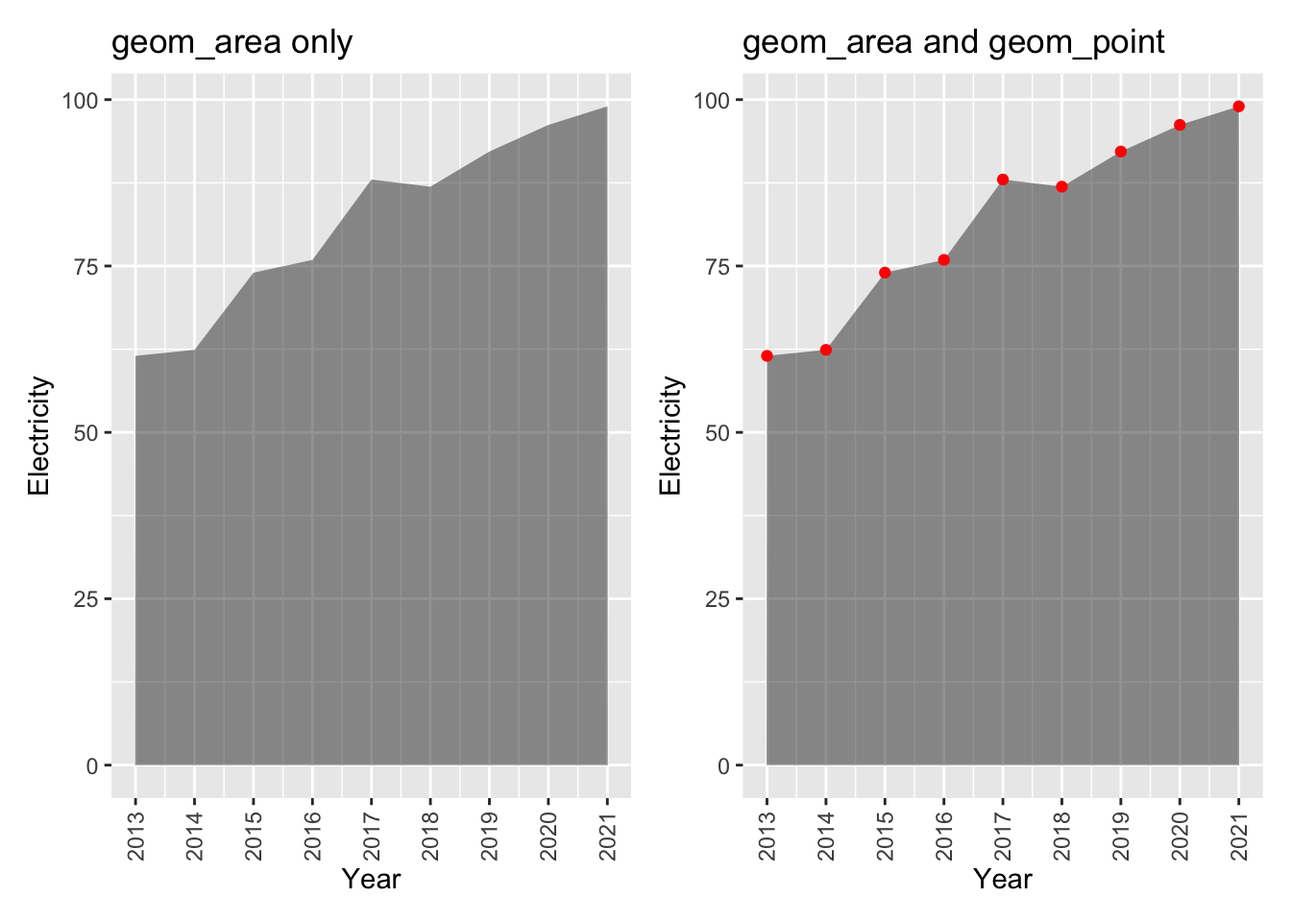
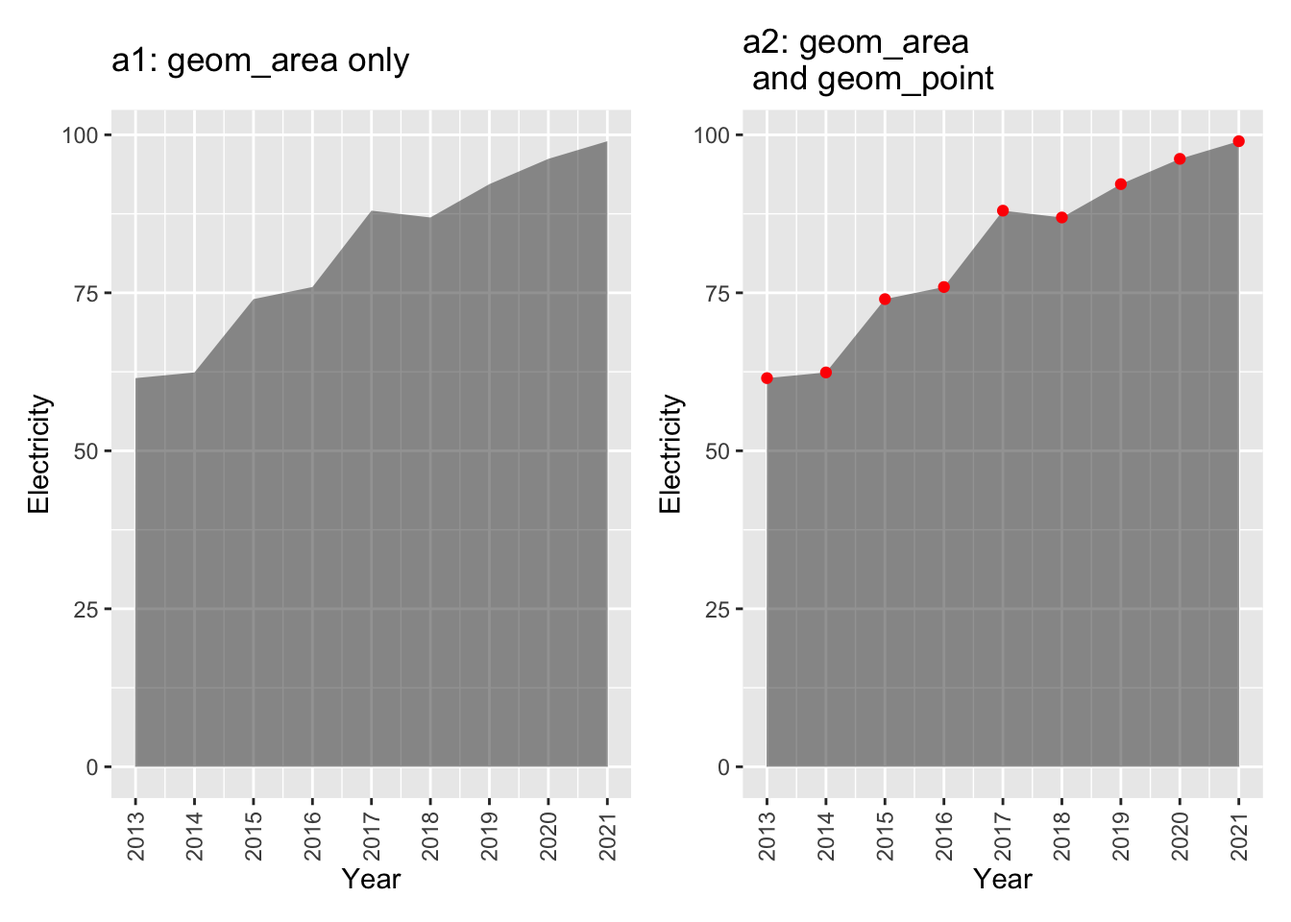
updated

diff --git a/_book/a.html b/_book/a.html
@@ -303,7 +303,7 @@ div.csl-indent {
           <li class="sidebar-item">
   <div class="sidebar-item-container"> 
   <a href="./h.html" class="sidebar-item-text sidebar-link">
- <span class="menu-text"><span class="chapter-number">10</span>&nbsp; <span class="chapter-title">geom_a</span></span></a>
+ <span class="menu-text"><span class="chapter-number">10</span>&nbsp; <span class="chapter-title">geom_h</span></span></a>
   </div>
 </li>
       </ul>
@@ -645,7 +645,15 @@ div.csl-indent {
   <li><a href="#see-also" id="toc-see-also" class="nav-link" data-scroll-target="#see-also"><span class="header-section-number">3.1.5</span> See also</a></li>
   <li><a href="#example" id="toc-example" class="nav-link" data-scroll-target="#example"><span class="header-section-number">3.1.6</span> Example</a></li>
   </ul></li>
-  <li><a href="#abline" id="toc-abline" class="nav-link" data-scroll-target="#abline"><span class="header-section-number">3.2</span> geom_abline</a></li>
+  <li><a href="#abline" id="toc-abline" class="nav-link" data-scroll-target="#abline"><span class="header-section-number">3.2</span> geom_abline</a>
+  <ul class="collapse">
+  <li><a href="#package-1" id="toc-package-1" class="nav-link" data-scroll-target="#package-1"><span class="header-section-number">3.2.1</span> Package</a></li>
+  <li><a href="#description-1" id="toc-description-1" class="nav-link" data-scroll-target="#description-1"><span class="header-section-number">3.2.2</span> Description</a></li>
+  <li><a href="#understandable-aesthetics-1" id="toc-understandable-aesthetics-1" class="nav-link" data-scroll-target="#understandable-aesthetics-1"><span class="header-section-number">3.2.3</span> Understandable aesthetics</a></li>
+  <li><a href="#statistics-layers" id="toc-statistics-layers" class="nav-link" data-scroll-target="#statistics-layers"><span class="header-section-number">3.2.4</span> Statistics layer(s)</a></li>
+  <li><a href="#see-also-1" id="toc-see-also-1" class="nav-link" data-scroll-target="#see-also-1"><span class="header-section-number">3.2.5</span> See also:</a></li>
+  <li><a href="#example-1" id="toc-example-1" class="nav-link" data-scroll-target="#example-1"><span class="header-section-number">3.2.6</span> Example</a></li>
+  </ul></li>
   </ul>
 </nav>
     </div>
@@ -696,18 +704,25 @@ div.csl-indent {
 <section id="example" class="level3" data-number="3.1.6">
 <h3 data-number="3.1.6" class="anchored" data-anchor-id="example"><span class="header-section-number">3.1.6</span> Example</h3>
 <div class="cell">
-<div class="sourceCode cell-code" id="cb1"><pre class="sourceCode r code-with-copy"><code class="sourceCode r"><span id="cb1-1"><a href="#cb1-1" aria-hidden="true" tabindex="-1"></a>area <span class="ot">&lt;-</span> worldbankdata <span class="sc">|&gt;</span></span>
+<div class="sourceCode cell-code" id="cb1"><pre class="sourceCode r code-with-copy"><code class="sourceCode r"><span id="cb1-1"><a href="#cb1-1" aria-hidden="true" tabindex="-1"></a>a1 <span class="ot">&lt;-</span> worldbankdata <span class="sc">|&gt;</span></span>
 <span id="cb1-2"><a href="#cb1-2" aria-hidden="true" tabindex="-1"></a>  <span class="fu">filter</span>(Country <span class="sc">==</span> <span class="st">"Bangladesh"</span>) <span class="sc">|&gt;</span> </span>
 <span id="cb1-3"><a href="#cb1-3" aria-hidden="true" tabindex="-1"></a>  <span class="fu">filter</span>(Year <span class="sc">&gt;=</span> <span class="dv">2013</span> <span class="sc">&amp;</span> Year <span class="sc">&lt;=</span> <span class="dv">2021</span>) <span class="sc">|&gt;</span></span>
 <span id="cb1-4"><a href="#cb1-4" aria-hidden="true" tabindex="-1"></a>  <span class="fu">ggplot</span>(<span class="fu">aes</span>(<span class="at">x=</span>Year, <span class="at">y=</span>Electricity)) <span class="sc">+</span> </span>
 <span id="cb1-5"><a href="#cb1-5" aria-hidden="true" tabindex="-1"></a>  <span class="fu">geom_area</span>(<span class="at">alpha=</span><span class="fl">0.5</span>) <span class="sc">+</span> </span>
 <span id="cb1-6"><a href="#cb1-6" aria-hidden="true" tabindex="-1"></a>  <span class="fu">theme</span>(<span class="at">axis.text.x =</span> <span class="fu">element_text</span>(<span class="at">angle =</span> <span class="dv">90</span>, <span class="at">vjust =</span> <span class="fl">0.5</span>, <span class="at">hjust=</span><span class="dv">1</span>)) <span class="sc">+</span> </span>
 <span id="cb1-7"><a href="#cb1-7" aria-hidden="true" tabindex="-1"></a>  <span class="fu">scale_x_continuous</span>(<span class="at">breaks =</span> <span class="dv">2013</span><span class="sc">:</span><span class="dv">2021</span>) <span class="sc">+</span> </span>
-<span id="cb1-8"><a href="#cb1-8" aria-hidden="true" tabindex="-1"></a>  <span class="fu">labs</span>(<span class="at">title =</span> <span class="st">"geom_area only"</span>)</span>
+<span id="cb1-8"><a href="#cb1-8" aria-hidden="true" tabindex="-1"></a>  <span class="fu">labs</span>(<span class="at">title =</span> <span class="st">"a1: geom_area only"</span>)</span>
 <span id="cb1-9"><a href="#cb1-9" aria-hidden="true" tabindex="-1"></a></span>
-<span id="cb1-10"><a href="#cb1-10" aria-hidden="true" tabindex="-1"></a>areapoint <span class="ot">&lt;-</span> area <span class="sc">+</span> <span class="fu">geom_point</span>(<span class="at">col=</span><span class="st">"red"</span>) <span class="sc">+</span> </span>
-<span id="cb1-11"><a href="#cb1-11" aria-hidden="true" tabindex="-1"></a>  <span class="fu">labs</span>(<span class="at">title =</span> <span class="st">"geom_area and geom_point"</span>)</span>
-<span id="cb1-12"><a href="#cb1-12" aria-hidden="true" tabindex="-1"></a>area <span class="sc">|</span> areapoint</span></code><button title="Copy to Clipboard" class="code-copy-button"><i class="bi"></i></button></pre></div>
+<span id="cb1-10"><a href="#cb1-10" aria-hidden="true" tabindex="-1"></a>a2 <span class="ot">&lt;-</span>  worldbankdata <span class="sc">|&gt;</span></span>
+<span id="cb1-11"><a href="#cb1-11" aria-hidden="true" tabindex="-1"></a>  <span class="fu">filter</span>(Country <span class="sc">==</span> <span class="st">"Bangladesh"</span>) <span class="sc">|&gt;</span> </span>
+<span id="cb1-12"><a href="#cb1-12" aria-hidden="true" tabindex="-1"></a>  <span class="fu">filter</span>(Year <span class="sc">&gt;=</span> <span class="dv">2013</span> <span class="sc">&amp;</span> Year <span class="sc">&lt;=</span> <span class="dv">2021</span>) <span class="sc">|&gt;</span></span>
+<span id="cb1-13"><a href="#cb1-13" aria-hidden="true" tabindex="-1"></a>  <span class="fu">ggplot</span>(<span class="fu">aes</span>(<span class="at">x=</span>Year, <span class="at">y=</span>Electricity)) <span class="sc">+</span> </span>
+<span id="cb1-14"><a href="#cb1-14" aria-hidden="true" tabindex="-1"></a>  <span class="fu">geom_area</span>(<span class="at">alpha=</span><span class="fl">0.5</span>) <span class="sc">+</span> </span>
+<span id="cb1-15"><a href="#cb1-15" aria-hidden="true" tabindex="-1"></a>  <span class="fu">theme</span>(<span class="at">axis.text.x =</span> <span class="fu">element_text</span>(<span class="at">angle =</span> <span class="dv">90</span>, <span class="at">vjust =</span> <span class="fl">0.5</span>, <span class="at">hjust=</span><span class="dv">1</span>)) <span class="sc">+</span> </span>
+<span id="cb1-16"><a href="#cb1-16" aria-hidden="true" tabindex="-1"></a>  <span class="fu">scale_x_continuous</span>(<span class="at">breaks =</span> <span class="dv">2013</span><span class="sc">:</span><span class="dv">2021</span>)  <span class="sc">+</span> </span>
+<span id="cb1-17"><a href="#cb1-17" aria-hidden="true" tabindex="-1"></a>  <span class="fu">geom_point</span>(<span class="at">col=</span><span class="st">"red"</span>) <span class="sc">+</span> </span>
+<span id="cb1-18"><a href="#cb1-18" aria-hidden="true" tabindex="-1"></a>  <span class="fu">labs</span>(<span class="at">title =</span> <span class="st">"a2: geom_area </span><span class="sc">\n</span><span class="st"> and geom_point"</span>)</span>
+<span id="cb1-19"><a href="#cb1-19" aria-hidden="true" tabindex="-1"></a>a1 <span class="sc">|</span> a2</span></code><button title="Copy to Clipboard" class="code-copy-button"><i class="bi"></i></button></pre></div>
 <div class="cell-output-display">
 <p><img src="a_files/figure-html/area-1.png" class="img-fluid" width="672"></p>
 </div>
@@ -716,34 +731,41 @@ div.csl-indent {
 </section>
 <section id="abline" class="level2" data-number="3.2">
 <h2 data-number="3.2" class="anchored" data-anchor-id="abline"><span class="header-section-number">3.2</span> geom_abline</h2>
-<p><strong>Package: </strong> ggplot2 <span class="citation" data-cites="R-ggplot2">(<a href="references.html#ref-R-ggplot2" role="doc-biblioref"><strong>R-ggplot2?</strong></a>)</span></p>
-<p><strong>Book: </strong></p>
-<p><strong>Description: </strong> Draw a straight line (<span class="math inline">\(Y=mX+c\)</span>) for a given slope (<span class="math inline">\(m\)</span>) and intercept (<span class="math inline">\(c\)</span>).</p>
-<p><strong>Understandable aesthetics:</strong> alpha, colour, linetype, linewidth</p>
-<p><strong>Statistics layer(s):</strong></p>
-<p><strong>See also: </strong> <a href="#point">geom_point</a>, <a href="#vline">geom_vline</a>, <a href="#hline">geom_hline</a></p>
-<p><strong>Example:</strong></p>
+<section id="package-1" class="level3" data-number="3.2.1">
+<h3 data-number="3.2.1" class="anchored" data-anchor-id="package-1"><span class="header-section-number">3.2.1</span> Package</h3>
+<p>ggplot2 <span class="citation" data-cites="ggplot2">(<a href="references.html#ref-ggplot2" role="doc-biblioref">Wickham 2016</a>)</span></p>
+</section>
+<section id="description-1" class="level3" data-number="3.2.2">
+<h3 data-number="3.2.2" class="anchored" data-anchor-id="description-1"><span class="header-section-number">3.2.2</span> Description</h3>
+<p>Description Draw a straight line (<span class="math inline">\(Y=mX+c\)</span>) for a given slope (<span class="math inline">\(m\)</span>) and intercept (<span class="math inline">\(c\)</span>).</p>
+</section>
+<section id="understandable-aesthetics-1" class="level3" data-number="3.2.3">
+<h3 data-number="3.2.3" class="anchored" data-anchor-id="understandable-aesthetics-1"><span class="header-section-number">3.2.3</span> Understandable aesthetics</h3>
+<p>Unlike most other geoms, <code>geom_abline</code> does not depend on the x and y variables that we map for the main plot. <code>geom_abline</code> has its own independent characteristics: <code>intercept</code> and <code>slope</code>.</p>
+</section>
+<section id="statistics-layers" class="level3" data-number="3.2.4">
+<h3 data-number="3.2.4" class="anchored" data-anchor-id="statistics-layers"><span class="header-section-number">3.2.4</span> Statistics layer(s)</h3>
+<p>None (<code>geom_abline</code> is independent from the data layer.)</p>
+</section>
+<section id="see-also-1" class="level3" data-number="3.2.5">
+<h3 data-number="3.2.5" class="anchored" data-anchor-id="see-also-1"><span class="header-section-number">3.2.5</span> See also:</h3>
+<p><a href="#point">geom_point</a>, <a href="#vline">geom_vline</a>, <a href="h.html#hline">geom_hline</a></p>
+</section>
+<section id="example-1" class="level3" data-number="3.2.6">
+<h3 data-number="3.2.6" class="anchored" data-anchor-id="example-1"><span class="header-section-number">3.2.6</span> Example</h3>
 <div class="cell">
-<div class="sourceCode cell-code" id="cb2"><pre class="sourceCode r code-with-copy"><code class="sourceCode r"><span id="cb2-1"><a href="#cb2-1" aria-hidden="true" tabindex="-1"></a>abline <span class="ot">&lt;-</span> <span class="fu">ggplot</span>(worldbankdata, <span class="fu">aes</span>(<span class="at">y =</span> Cooking, <span class="at">x=</span>Electricity)) <span class="sc">+</span>  <span class="fu">geom_abline</span>(<span class="at">intercept =</span> <span class="dv">0</span>, <span class="at">slope =</span> <span class="dv">1</span>) <span class="sc">+</span> </span>
-<span id="cb2-2"><a href="#cb2-2" aria-hidden="true" tabindex="-1"></a>  <span class="fu">labs</span>(<span class="at">title=</span><span class="st">"A: `geom_abline` only"</span>) <span class="sc">+</span></span>
-<span id="cb2-3"><a href="#cb2-3" aria-hidden="true" tabindex="-1"></a>  <span class="fu">theme</span>(<span class="at">aspect.ratio =</span> <span class="dv">1</span>)</span>
-<span id="cb2-4"><a href="#cb2-4" aria-hidden="true" tabindex="-1"></a></span>
-<span id="cb2-5"><a href="#cb2-5" aria-hidden="true" tabindex="-1"></a>pointabline <span class="ot">&lt;-</span> abline <span class="sc">+</span> </span>
-<span id="cb2-6"><a href="#cb2-6" aria-hidden="true" tabindex="-1"></a>  <span class="fu">geom_point</span>() <span class="sc">+</span> </span>
-<span id="cb2-7"><a href="#cb2-7" aria-hidden="true" tabindex="-1"></a>  <span class="fu">theme</span>(<span class="at">aspect.ratio =</span> <span class="dv">1</span>)</span>
-<span id="cb2-8"><a href="#cb2-8" aria-hidden="true" tabindex="-1"></a></span>
-<span id="cb2-9"><a href="#cb2-9" aria-hidden="true" tabindex="-1"></a><span class="fu">library</span>(patchwork)</span>
-<span id="cb2-10"><a href="#cb2-10" aria-hidden="true" tabindex="-1"></a>abline <span class="sc">|</span> pointabline</span></code><button title="Copy to Clipboard" class="code-copy-button"><i class="bi"></i></button></pre></div>
-<div class="cell-output cell-output-stderr">
-<pre><code>Warning: Removed 6051 rows containing missing values (`geom_point()`).</code></pre>
-</div>
+<div class="sourceCode cell-code" id="cb2"><pre class="sourceCode r code-with-copy"><code class="sourceCode r"><span id="cb2-1"><a href="#cb2-1" aria-hidden="true" tabindex="-1"></a>a1 <span class="ot">&lt;-</span> <span class="fu">ggplot</span>(worldbankdata, <span class="fu">aes</span>(<span class="at">y =</span> Cooking, <span class="at">x=</span>Electricity)) <span class="sc">+</span> </span>
+<span id="cb2-2"><a href="#cb2-2" aria-hidden="true" tabindex="-1"></a>  <span class="fu">geom_abline</span>(<span class="at">intercept =</span> <span class="dv">0</span>, <span class="at">slope =</span> <span class="dv">1</span>) <span class="sc">+</span> </span>
+<span id="cb2-3"><a href="#cb2-3" aria-hidden="true" tabindex="-1"></a>  <span class="fu">labs</span>(<span class="at">title=</span><span class="st">"a1: geom_abline only"</span>) <span class="sc">+</span></span>
+<span id="cb2-4"><a href="#cb2-4" aria-hidden="true" tabindex="-1"></a>  <span class="fu">theme</span>(<span class="at">aspect.ratio =</span> <span class="dv">1</span>)</span>
+<span id="cb2-5"><a href="#cb2-5" aria-hidden="true" tabindex="-1"></a>a2 <span class="ot">&lt;-</span> <span class="fu">ggplot</span>(worldbankdata, <span class="fu">aes</span>(<span class="at">y =</span> Cooking, <span class="at">x=</span>Electricity)) <span class="sc">+</span> </span>
+<span id="cb2-6"><a href="#cb2-6" aria-hidden="true" tabindex="-1"></a>  <span class="fu">geom_abline</span>(<span class="at">intercept =</span> <span class="dv">0</span>, <span class="at">slope =</span> <span class="dv">1</span>) <span class="sc">+</span> </span>
+<span id="cb2-7"><a href="#cb2-7" aria-hidden="true" tabindex="-1"></a>  <span class="fu">geom_point</span>() <span class="sc">+</span> </span>
+<span id="cb2-8"><a href="#cb2-8" aria-hidden="true" tabindex="-1"></a>  <span class="fu">labs</span>(<span class="at">title =</span> <span class="st">"a2: geom_abline </span><span class="sc">\n</span><span class="st"> and geom_point"</span>) <span class="sc">+</span></span>
+<span id="cb2-9"><a href="#cb2-9" aria-hidden="true" tabindex="-1"></a>  <span class="fu">theme</span>(<span class="at">aspect.ratio =</span> <span class="dv">1</span>)</span>
+<span id="cb2-10"><a href="#cb2-10" aria-hidden="true" tabindex="-1"></a>a1 <span class="sc">|</span> a2</span></code><button title="Copy to Clipboard" class="code-copy-button"><i class="bi"></i></button></pre></div>
 <div class="cell-output-display">
-<div class="quarto-figure quarto-figure-center">
-<figure class="figure">
-<p><img src="a_files/figure-html/unnamed-chunk-2-1.png" class="img-fluid figure-img" width="480"></p>
-<figcaption class="figure-caption">Illustration of (A) geom_abline and (B) use of geom_point and geom_abline both</figcaption>
-</figure>
-</div>
+<p><img src="a_files/figure-html/unnamed-chunk-2-1.png" class="img-fluid" width="768"></p>
 </div>
 </div>
 
@@ -753,6 +775,7 @@ div.csl-indent {
 Wickham, Hadley. 2016. <em>Ggplot2: Elegant Graphics for Data Analysis</em>. Springer-Verlag New York. <a href="https://ggplot2.tidyverse.org">https://ggplot2.tidyverse.org</a>.
 </div>
 </div>
+</section>
 </section>
 
 </main> <!-- /main -->

diff --git a/_book/h.html b/_book/h.html
@@ -7,7 +7,7 @@
 <meta name="viewport" content="width=device-width, initial-scale=1.0, user-scalable=yes">
 
 
-<title>Data Visualisation geom Encyclopedia - 10&nbsp; geom_a</title>
+<title>Data Visualisation geom Encyclopedia - 10&nbsp; geom_h</title>
 <style>
 code{white-space: pre-wrap;}
 span.smallcaps{font-variant: small-caps;}
@@ -20,7 +20,60 @@ ul.task-list li input[type="checkbox"] {
   margin: 0 0.8em 0.2em -1em; /* quarto-specific, see https://github.com/quarto-dev/quarto-cli/issues/4556 */ 
   vertical-align: middle;
 }
-</style>
+/* CSS for syntax highlighting */
+pre > code.sourceCode { white-space: pre; position: relative; }
+pre > code.sourceCode > span { display: inline-block; line-height: 1.25; }
+pre > code.sourceCode > span:empty { height: 1.2em; }
+.sourceCode { overflow: visible; }
+code.sourceCode > span { color: inherit; text-decoration: inherit; }
+div.sourceCode { margin: 1em 0; }
+pre.sourceCode { margin: 0; }
+@media screen {
+div.sourceCode { overflow: auto; }
+}
+@media print {
+pre > code.sourceCode { white-space: pre-wrap; }
+pre > code.sourceCode > span { text-indent: -5em; padding-left: 5em; }
+}
+pre.numberSource code
+  { counter-reset: source-line 0; }
+pre.numberSource code > span
+  { position: relative; left: -4em; counter-increment: source-line; }
+pre.numberSource code > span > a:first-child::before
+  { content: counter(source-line);
+    position: relative; left: -1em; text-align: right; vertical-align: baseline;
+    border: none; display: inline-block;
+    -webkit-touch-callout: none; -webkit-user-select: none;
+    -khtml-user-select: none; -moz-user-select: none;
+    -ms-user-select: none; user-select: none;
+    padding: 0 4px; width: 4em;
+  }
+pre.numberSource { margin-left: 3em;  padding-left: 4px; }
+div.sourceCode
+  {   }
+@media screen {
+pre > code.sourceCode > span > a:first-child::before { text-decoration: underline; }
+}
+/* CSS for citations */
+div.csl-bib-body { }
+div.csl-entry {
+  clear: both;
+}
+.hanging-indent div.csl-entry {
+  margin-left:2em;
+  text-indent:-2em;
+}
+div.csl-left-margin {
+  min-width:2em;
+  float:left;
+}
+div.csl-right-inline {
+  margin-left:2em;
+  padding-left:1em;
+}
+div.csl-indent {
+  margin-left: 2em;
+}</style>
 
 
 <script src="site_libs/quarto-nav/quarto-nav.js"></script>
@@ -62,6 +115,8 @@ ul.task-list li input[type="checkbox"] {
   }
 }</script>
 
+  <script src="https://polyfill.io/v3/polyfill.min.js?features=es6"></script>
+  <script src="https://cdn.jsdelivr.net/npm/mathjax@3/es5/tex-chtml-full.js" type="text/javascript"></script>
 
 </head>
 
@@ -74,7 +129,7 @@ ul.task-list li input[type="checkbox"] {
       <button type="button" class="quarto-btn-toggle btn" data-bs-toggle="collapse" data-bs-target="#quarto-sidebar,#quarto-sidebar-glass" aria-controls="quarto-sidebar" aria-expanded="false" aria-label="Toggle sidebar navigation" onclick="if (window.quartoToggleHeadroom) { window.quartoToggleHeadroom(); }">
         <i class="bi bi-layout-text-sidebar-reverse"></i>
       </button>
-      <nav class="quarto-page-breadcrumbs" aria-label="breadcrumb"><ol class="breadcrumb"><li class="breadcrumb-item"><a href="./parth.html">H</a></li><li class="breadcrumb-item"><a href="./h.html"><span class="chapter-number">10</span>&nbsp; <span class="chapter-title">geom_a</span></a></li></ol></nav>
+      <nav class="quarto-page-breadcrumbs" aria-label="breadcrumb"><ol class="breadcrumb"><li class="breadcrumb-item"><a href="./parth.html">H</a></li><li class="breadcrumb-item"><a href="./h.html"><span class="chapter-number">10</span>&nbsp; <span class="chapter-title">geom_h</span></a></li></ol></nav>
       <a class="flex-grow-1" role="button" data-bs-toggle="collapse" data-bs-target="#quarto-sidebar,#quarto-sidebar-glass" aria-controls="quarto-sidebar" aria-expanded="false" aria-label="Toggle sidebar navigation" onclick="if (window.quartoToggleHeadroom) { window.quartoToggleHeadroom(); }">      
       </a>
       <button type="button" class="btn quarto-search-button" aria-label="" onclick="window.quartoOpenSearch();">
@@ -129,7 +184,7 @@ ul.task-list li input[type="checkbox"] {
           <li class="sidebar-item">
   <div class="sidebar-item-container"> 
   <a href="./a.html" class="sidebar-item-text sidebar-link">
- <span class="menu-text"><span class="chapter-number">3</span>&nbsp; <span class="chapter-title">geom_a</span></span></a>
+ <span class="menu-text"><span class="chapter-number">3</span>&nbsp; <span class="chapter-title">A: geom_a</span></span></a>
   </div>
 </li>
       </ul>
@@ -248,7 +303,7 @@ ul.task-list li input[type="checkbox"] {
           <li class="sidebar-item">
   <div class="sidebar-item-container"> 
   <a href="./h.html" class="sidebar-item-text sidebar-link active">
- <span class="menu-text"><span class="chapter-number">10</span>&nbsp; <span class="chapter-title">geom_a</span></span></a>
+ <span class="menu-text"><span class="chapter-number">10</span>&nbsp; <span class="chapter-title">geom_h</span></span></a>
   </div>
 </li>
       </ul>
@@ -581,7 +636,15 @@ ul.task-list li input[type="checkbox"] {
     <h2 id="toc-title">Table of contents</h2>
    
   <ul>
-  <li><a href="#geom_abline" id="toc-geom_abline" class="nav-link active" data-scroll-target="#geom_abline"><span class="header-section-number">10.1</span> geom_abline</a></li>
+  <li><a href="#hline" id="toc-hline" class="nav-link active" data-scroll-target="#hline"><span class="header-section-number">10.1</span> geom_hline</a>
+  <ul class="collapse">
+  <li><a href="#package" id="toc-package" class="nav-link" data-scroll-target="#package"><span class="header-section-number">10.1.1</span> Package</a></li>
+  <li><a href="#description" id="toc-description" class="nav-link" data-scroll-target="#description"><span class="header-section-number">10.1.2</span> Description</a></li>
+  <li><a href="#understandable-aesthetics" id="toc-understandable-aesthetics" class="nav-link" data-scroll-target="#understandable-aesthetics"><span class="header-section-number">10.1.3</span> Understandable aesthetics</a></li>
+  <li><a href="#statistics-layers" id="toc-statistics-layers" class="nav-link" data-scroll-target="#statistics-layers"><span class="header-section-number">10.1.4</span> Statistics layer(s)</a></li>
+  <li><a href="#see-also" id="toc-see-also" class="nav-link" data-scroll-target="#see-also"><span class="header-section-number">10.1.5</span> See also</a></li>
+  <li><a href="#example" id="toc-example" class="nav-link" data-scroll-target="#example"><span class="header-section-number">10.1.6</span> Example</a></li>
+  </ul></li>
   </ul>
 </nav>
     </div>
@@ -590,7 +653,7 @@ ul.task-list li input[type="checkbox"] {
 
 <header id="title-block-header" class="quarto-title-block default">
 <div class="quarto-title">
-<h1 class="title"><span id="sec-a" class="quarto-section-identifier"><span class="chapter-number">10</span>&nbsp; <span class="chapter-title">geom_a</span></span></h1>
+<h1 class="title"><span id="sec-h" class="quarto-section-identifier"><span class="chapter-number">10</span>&nbsp; <span class="chapter-title">geom_h</span></span></h1>
 </div>
 
 
@@ -605,10 +668,58 @@ ul.task-list li input[type="checkbox"] {
 
 </header>
 
-<section id="geom_abline" class="level2" data-number="10.1">
-<h2 data-number="10.1" class="anchored" data-anchor-id="geom_abline"><span class="header-section-number">10.1</span> geom_abline</h2>
+<section id="hline" class="level2" data-number="10.1">
+<h2 data-number="10.1" class="anchored" data-anchor-id="hline"><span class="header-section-number">10.1</span> geom_hline</h2>
+<section id="package" class="level3" data-number="10.1.1">
+<h3 data-number="10.1.1" class="anchored" data-anchor-id="package"><span class="header-section-number">10.1.1</span> Package</h3>
+<p>ggplot2 <span class="citation" data-cites="ggplot2">(<a href="references.html#ref-ggplot2" role="doc-biblioref">Wickham 2016</a>)</span></p>
+</section>
+<section id="description" class="level3" data-number="10.1.2">
+<h3 data-number="10.1.2" class="anchored" data-anchor-id="description"><span class="header-section-number">10.1.2</span> Description</h3>
+<p>Draw a horizontal line (<span class="math inline">\(Y=c\)</span>) for a given value of <span class="math inline">\(c\)</span>, which is known as <code>yintercept</code>.</p>
+</section>
+<section id="understandable-aesthetics" class="level3" data-number="10.1.3">
+<h3 data-number="10.1.3" class="anchored" data-anchor-id="understandable-aesthetics"><span class="header-section-number">10.1.3</span> Understandable aesthetics</h3>
+<p>Unlike most other geoms, <code>geom_hline</code> does not depend on the x and y variables that we map for the main plot. <code>geom_hline</code> has its own independent characteristics: <code>yintercept</code>. The yintercept can be passed either as a arguments or aesthetic.</p>
+</section>
+<section id="statistics-layers" class="level3" data-number="10.1.4">
+<h3 data-number="10.1.4" class="anchored" data-anchor-id="statistics-layers"><span class="header-section-number">10.1.4</span> Statistics layer(s)</h3>
+<p>None</p>
+</section>
+<section id="see-also" class="level3" data-number="10.1.5">
+<h3 data-number="10.1.5" class="anchored" data-anchor-id="see-also"><span class="header-section-number">10.1.5</span> See also</h3>
+<p><a href="#point">geom_point</a>, <a href="#vline">geom_vline</a>, <a href="#hline">geom_hline</a></p>
+</section>
+<section id="example" class="level3" data-number="10.1.6">
+<h3 data-number="10.1.6" class="anchored" data-anchor-id="example"><span class="header-section-number">10.1.6</span> Example</h3>
+<div class="cell">
+<div class="sourceCode cell-code" id="cb1"><pre class="sourceCode r code-with-copy"><code class="sourceCode r"><span id="cb1-1"><a href="#cb1-1" aria-hidden="true" tabindex="-1"></a>a1 <span class="ot">&lt;-</span> <span class="fu">ggplot</span>(worldbankdata, <span class="fu">aes</span>(<span class="at">y =</span> Cooking, <span class="at">x=</span> Electricity)) <span class="sc">+</span> <span class="fu">geom_hline</span>(<span class="at">yintercept =</span> <span class="dv">50</span>) <span class="sc">+</span> </span>
+<span id="cb1-2"><a href="#cb1-2" aria-hidden="true" tabindex="-1"></a>  <span class="fu">labs</span>(<span class="at">title=</span><span class="st">"a1: `geom_hline` only"</span>) <span class="sc">+</span></span>
+<span id="cb1-3"><a href="#cb1-3" aria-hidden="true" tabindex="-1"></a>  <span class="fu">theme</span>(<span class="at">aspect.ratio =</span> <span class="dv">1</span>)</span>
+<span id="cb1-4"><a href="#cb1-4" aria-hidden="true" tabindex="-1"></a></span>
+<span id="cb1-5"><a href="#cb1-5" aria-hidden="true" tabindex="-1"></a>a2 <span class="ot">&lt;-</span> <span class="fu">ggplot</span>(worldbankdata, <span class="fu">aes</span>(<span class="at">y =</span> Cooking, <span class="at">x=</span>Electricity)) <span class="sc">+</span> </span>
+<span id="cb1-6"><a href="#cb1-6" aria-hidden="true" tabindex="-1"></a>  <span class="fu">geom_point</span>() <span class="sc">+</span> </span>
+<span id="cb1-7"><a href="#cb1-7" aria-hidden="true" tabindex="-1"></a>  <span class="fu">geom_hline</span>(<span class="at">yintercept =</span> <span class="dv">50</span>) <span class="sc">+</span> </span>
+<span id="cb1-8"><a href="#cb1-8" aria-hidden="true" tabindex="-1"></a>  <span class="fu">labs</span>(<span class="at">title=</span><span class="st">"a2: `geom_point +</span><span class="sc">\n</span><span class="st"> geom_hline` both"</span>) <span class="sc">+</span></span>
+<span id="cb1-9"><a href="#cb1-9" aria-hidden="true" tabindex="-1"></a>  <span class="fu">theme</span>(<span class="at">aspect.ratio =</span> <span class="dv">1</span>)</span>
+<span id="cb1-10"><a href="#cb1-10" aria-hidden="true" tabindex="-1"></a>a1 <span class="sc">|</span> a2</span></code><button title="Copy to Clipboard" class="code-copy-button"><i class="bi"></i></button></pre></div>
+<div class="cell-output-display">
+<div class="quarto-figure quarto-figure-center">
+<figure class="figure">
+<p><img src="h_files/figure-html/hline2-1.png" class="img-fluid figure-img" width="672"></p>
+<figcaption class="figure-caption">Illustration of (A) geom_hline and (B) use of geom_point and geom_hline both</figcaption>
+</figure>
+</div>
+</div>
+</div>
 
 
+<div id="refs" class="references csl-bib-body hanging-indent" role="list" style="display: none">
+<div id="ref-ggplot2" class="csl-entry" role="listitem">
+Wickham, Hadley. 2016. <em>Ggplot2: Elegant Graphics for Data Analysis</em>. Springer-Verlag New York. <a href="https://ggplot2.tidyverse.org">https://ggplot2.tidyverse.org</a>.
+</div>
+</div>
+</section>
 </section>
 
 </main> <!-- /main -->

diff --git a/_book/v.html b/_book/v.html
@@ -129,7 +129,7 @@ ul.task-list li input[type="checkbox"] {
           <li class="sidebar-item">
   <div class="sidebar-item-container"> 
   <a href="./a.html" class="sidebar-item-text sidebar-link">
- <span class="menu-text"><span class="chapter-number">3</span>&nbsp; <span class="chapter-title">geom_a</span></span></a>
+ <span class="menu-text"><span class="chapter-number">3</span>&nbsp; <span class="chapter-title">A: geom_a</span></span></a>
   </div>
 </li>
       </ul>
@@ -248,7 +248,7 @@ ul.task-list li input[type="checkbox"] {
           <li class="sidebar-item">
   <div class="sidebar-item-container"> 
   <a href="./h.html" class="sidebar-item-text sidebar-link">
- <span class="menu-text"><span class="chapter-number">10</span>&nbsp; <span class="chapter-title">geom_a</span></span></a>
+ <span class="menu-text"><span class="chapter-number">10</span>&nbsp; <span class="chapter-title">geom_h</span></span></a>
   </div>
 </li>
       </ul>

diff --git a/_book/index.html b/_book/index.html
@@ -248,7 +248,7 @@ ul.task-list li input[type="checkbox"] {
           <li class="sidebar-item">
   <div class="sidebar-item-container"> 
   <a href="./h.html" class="sidebar-item-text sidebar-link">
- <span class="menu-text"><span class="chapter-number">10</span>&nbsp; <span class="chapter-title">geom_a</span></span></a>
+ <span class="menu-text"><span class="chapter-number">10</span>&nbsp; <span class="chapter-title">geom_h</span></span></a>
   </div>
 </li>
       </ul>
